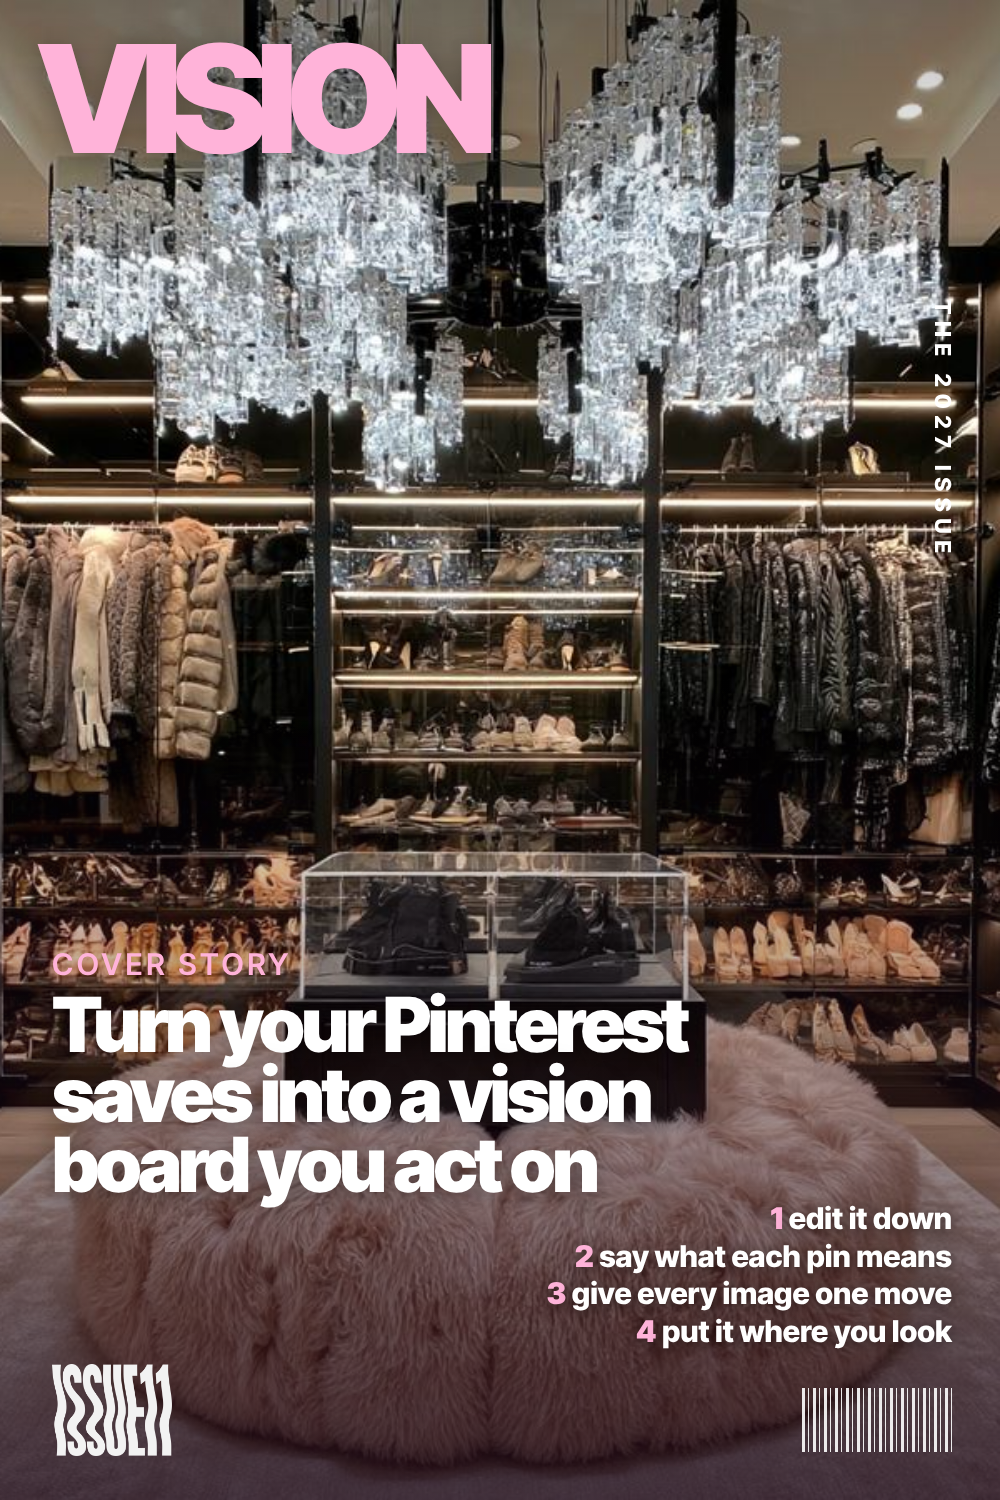
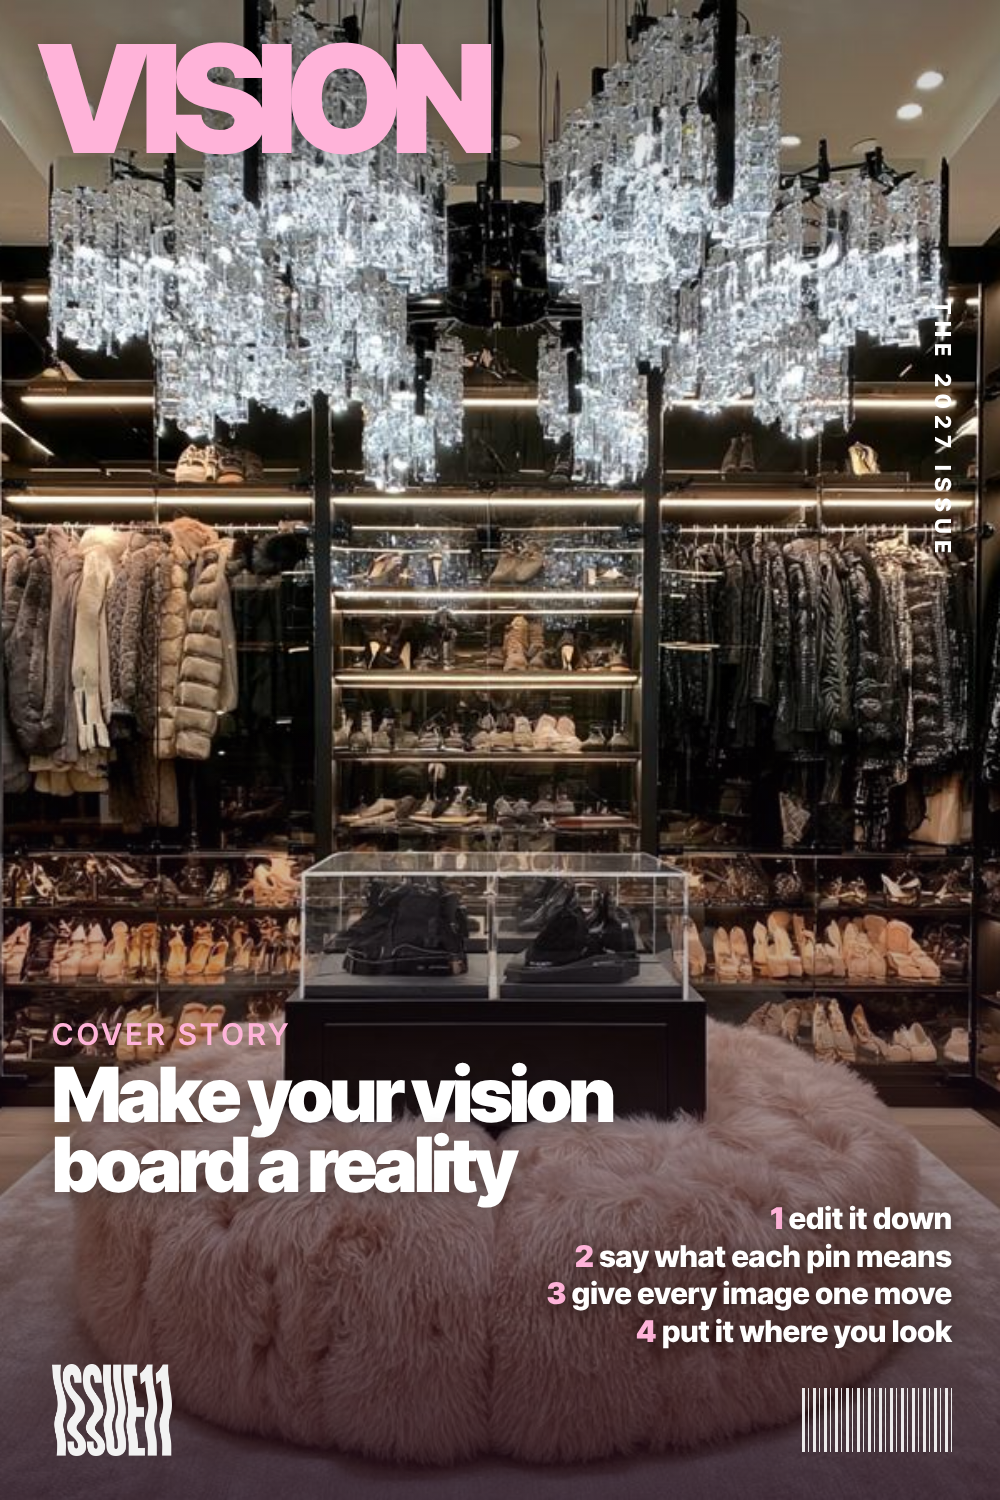
Pinterest: PV cover story = Megan's line 'Make your vision board a reality'
Claude-Session: https://claude.ai/code/session_01YGtmQppBCBt9nypMHzxSp1

Changed region(s): [[0.031, 0.6133, 0.713, 0.828]]

diff --git a/drafts/pinterest/article-pins/ArticlePinPV.dc.html b/drafts/pinterest/article-pins/ArticlePinPV.dc.html
@@ -31,7 +31,7 @@ body{margin:0}
 <div class="pin">
 <img class="bg" src="/_blob/e0b2acd5fe4e7845cf15c0a2d79a2367" style="object-position:50% 45%" alt="Editorial photo (AI-generated)"><div class="shade" style="background:linear-gradient(180deg,rgba(0,0,0,.25) 0%,rgba(0,0,0,0) 15%,rgba(0,0,0,0) 45%,rgba(30,10,25,.8) 100%)"></div>
 <div class="dg" style="color:#FFB3D9">Vision</div><div class="date">The 2027 issue</div>
-<div class="story"><i style="color:#FFB3D9">Cover story</i>Turn your Pinterest saves into a vision board you act on</div>
+<div class="story"><i style="color:#FFB3D9">Cover story</i>Make your vision board a reality</div>
 <div class="lines"><b style="color:#FFB3D9">1</b> edit it down<br><b style="color:#FFB3D9">2</b> say what each pin means<br><b style="color:#FFB3D9">3</b> give every image one move<br><b style="color:#FFB3D9">4</b> put it where you look</div>
 <img class="logo w" src="/_blob/d196614efc6265e2205729134fb523b8" alt="ISSUE11"><div class="bar"></div>
 </div>

diff --git a/drafts/pinterest/article-pins/INDEX.md b/drafts/pinterest/article-pins/INDEX.md
@@ -22,7 +22,7 @@ Source boards: Claude Design Lead Magnets canvas (https://claude.ai/artifact/MZr
 | ArticlePinSO | issue11.app/blog/how-to-stop-overthinking | png/ArticlePinSO.png | How to Stop Overthinking: 9 Tips That Actually Help (+ How to Stop Overthinking at Night) | "How to stop overthinking" in a black band, the article's 9 ways as a numbered list, a colour photo of a woman in a silver jacket against blue sky, and Megan's line "My nervous system is calm" | Pass 390 + 236 (Nov 16) | ready for Framer |
 | ArticlePinMJ | issue11.app/blog/manifestation-journal-prompts | png/ArticlePinMJ.png | Manifestation Journal Prompts: Daily Prompts for Your Dream Life (That End With One Move) | "Manifestation journal prompts" with a colour photo of two women in cream coats from behind, five of the article's prompts each with its "Then" question, and Megan's line "My dream life wants me" | Pass 390 + 236 (Nov 16) | ready for Framer |
 | ArticlePinVM | issue11.app/blog/vision-board-for-manifestation | png/ArticlePinVM.png | Vision Board for Manifestation: How to Create a Vision Board You Actually Act On | "Vision board for manifestation" with a wide colour photo of a man in blue glasses and a blue jacket, the article's 6 quick takeaways as numbered boxes, and Megan's line "My life can do a 180 in just 1 year" | Pass 390 + 236 (Nov 16) | ready for Framer |
-| ArticlePinPV | issue11.app/blog/pinterest-vision-board | png/ArticlePinPV.png | Pinterest Vision Board Ideas: Turn Your Saves Into a Board You Act On | Magazine cover (Megan's approved template): "VISION" masthead over a colour photo of a dream walk-in closet with chandeliers, cover story "Turn your Pinterest saves into a vision board you act on", cover lines = the article's 4 steps | Pass 390 + 236 (Nov 16) | ready for Framer |
+| ArticlePinPV | issue11.app/blog/pinterest-vision-board | png/ArticlePinPV.png | Pinterest Vision Board Ideas: Turn Your Saves Into a Board You Act On | Magazine cover (Megan's approved template): "VISION" masthead over a colour photo of a dream walk-in closet with chandeliers, cover story "Make your vision board a reality" (Megan's line, Nov 16), cover lines = the article's 4 steps | Pass 390 + 236 (Nov 16) | ready for Framer |
 
 Keyword check for ArticlePinVBE: Pinterest autocomplete (Apify, Nov 16) suggests "vision board examples" with "inspiration", "aesthetic", "life", "career" and "manifestation" variants. Raw: `../2026-11-16-vision-board-examples-keywords.json`. No volume figure from Pinterest; Google US 11,000/mo per QUEUE.md.
 
